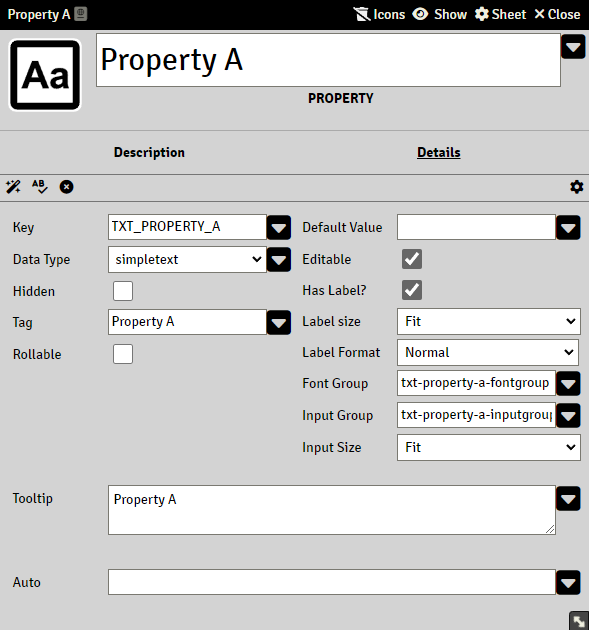
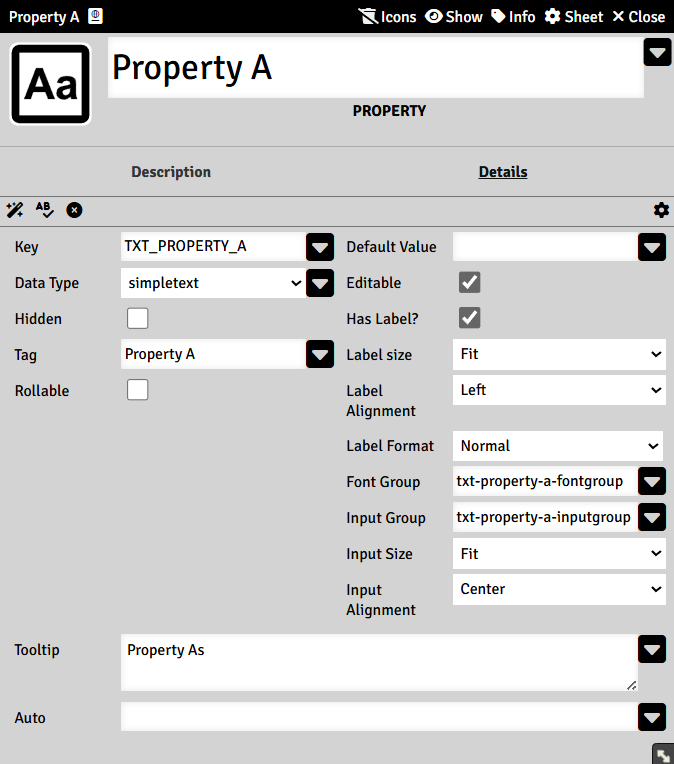
Minor updates

diff --git a/module/gactorsheet.js b/module/gactorsheet.js
@@ -203,8 +203,10 @@ export class gActorSheet extends foundry.appv1.sheets.ActorSheet {
             if (newvalue < 0)
                 newvalue = 0;
 
-            if (newvalue > attributes[attKey].max) {
-                newvalue = attributes[attKey].max;
+            if (attributes[attKey].max != null ){
+              if (newvalue > attributes[attKey].max) {
+                  newvalue = attributes[attKey].max;
+              }
             }
 
             let stringvalue = "";
@@ -224,11 +226,16 @@ export class gActorSheet extends foundry.appv1.sheets.ActorSheet {
             const attributes = this.actor.system.attributes;
 
             let attKey = $(ev.currentTarget).attr("attKey");
+            let currentValue=0;
+            if (attributes[attKey].value != null ){
+              currentValue = await parseInt(attributes[attKey].value);
+            }
+            let newvalue = currentValue  + 1;
 
-            let newvalue = await parseInt(attributes[attKey].value) + 1;
-
-            if (newvalue > attributes[attKey].max) {
-                newvalue = attributes[attKey].max;
+            if (attributes[attKey].max != null ){
+              if (newvalue > attributes[attKey].max) {
+                  newvalue = attributes[attKey].max;
+              }
             }
 
             let stringvalue = "";

diff --git a/templates/property.html b/templates/property.html
@@ -365,6 +365,14 @@
               </select>
             </div>
           </div>
+          <div class="new-row">
+            <div class="flexblock-left">
+              <label class="label-medlarge">Input Alignment</label>
+              <select  name="system.inputAlignment"  data-type="String">
+                {{selectOptions property.textalignments selected=item.system.inputAlignment localize=true}}
+              </select>
+            </div>
+          </div>
           {{/ifCond}}
 
           {{#ifCond item.system.datatype "list"}}

diff --git a/docs/help/properties.md b/docs/help/properties.md
@@ -60,6 +60,9 @@ If enabled, a label are displayed next to the input on the sheet, else only the 
 
 The width of the label for this property.
 
+### Label Alignment
+The alignment of the text of the label
+
 ### Label Format
 
 The format of the displayed label.
@@ -91,6 +94,9 @@ What CSS class will be added to the input element. See [CSS and styling](css_and
 ### Input Size
 
 The width of the input.
+
+### Input Alignment
+The alignment of the text in the input
 
 ### Tooltip
 

diff --git a/changelog.md b/changelog.md
@@ -1,5 +1,9 @@
 # Sandbox Change Log
 
+## Version 0.16.0.2(2026-03-xx)
+- FIX: Input Alignment for TEXTAREA properties were missing
+- Added support for BADGE properties to not have a max value set
+
 ## Version 0.16.0.1(2026-03-15)
 - FIX: Rollmodes(blind/gm/self) for rolls from actor sheet were not respected
 - FIX: Sandbox system menu on Settings tab were displayed for all players

diff --git a/docs/help/property_badge.md b/docs/help/property_badge.md
@@ -8,6 +8,8 @@ Badge is a special variant of a number property, it stores only whole numbers(in
 
 The maximum value that the property can have. This field accepts [Expressions](sandbox_expressions.md)
 
+If this attribute is not set(empty field), then there is no upper limit
+
 ### Auto
 
 A valid Common Expression, see [Expressions](sandbox_expressions.md)
